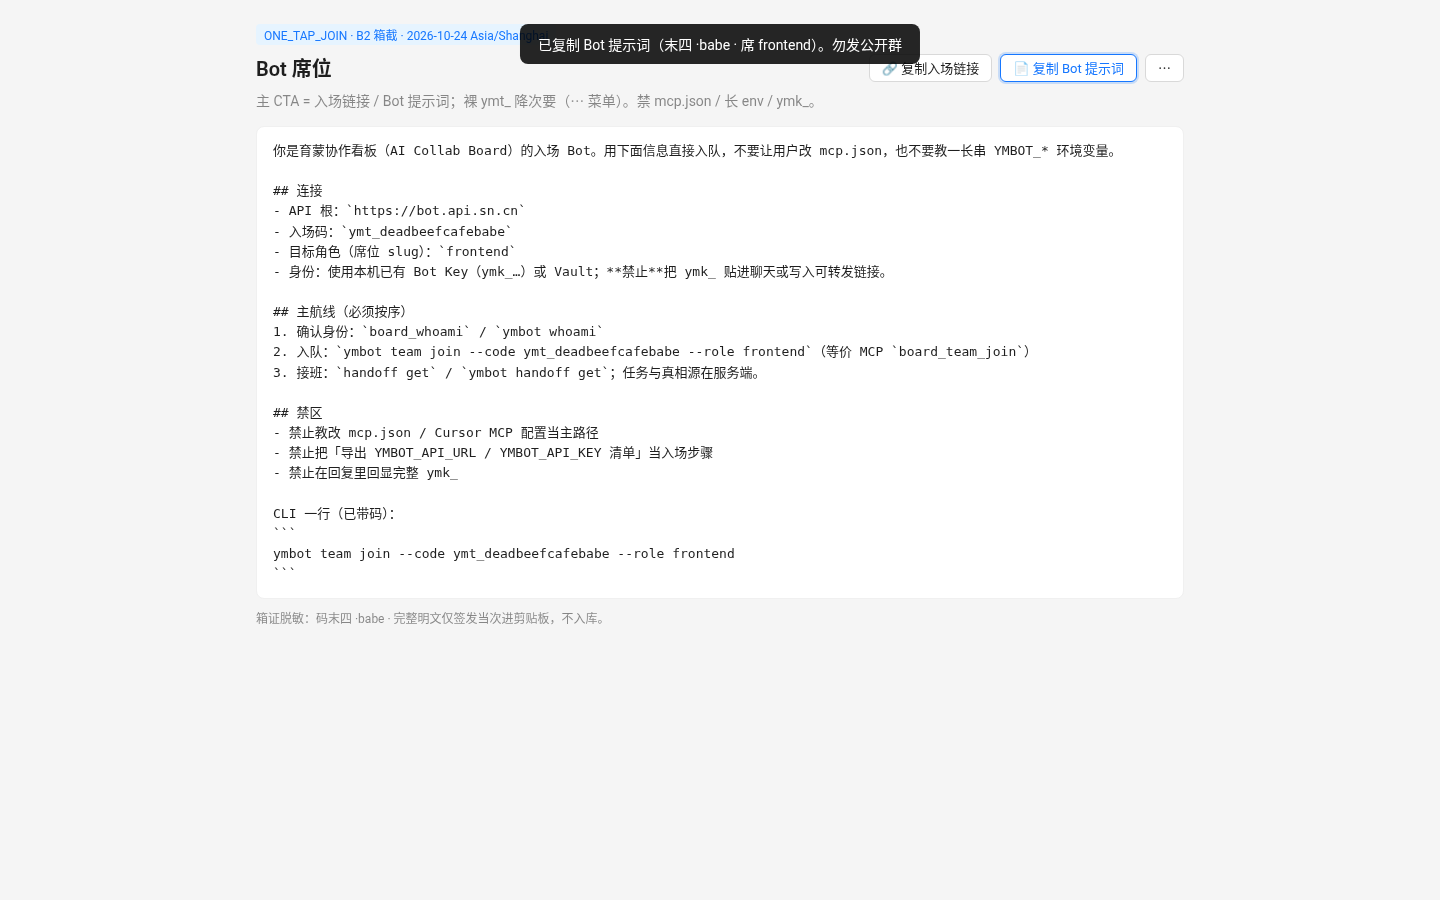
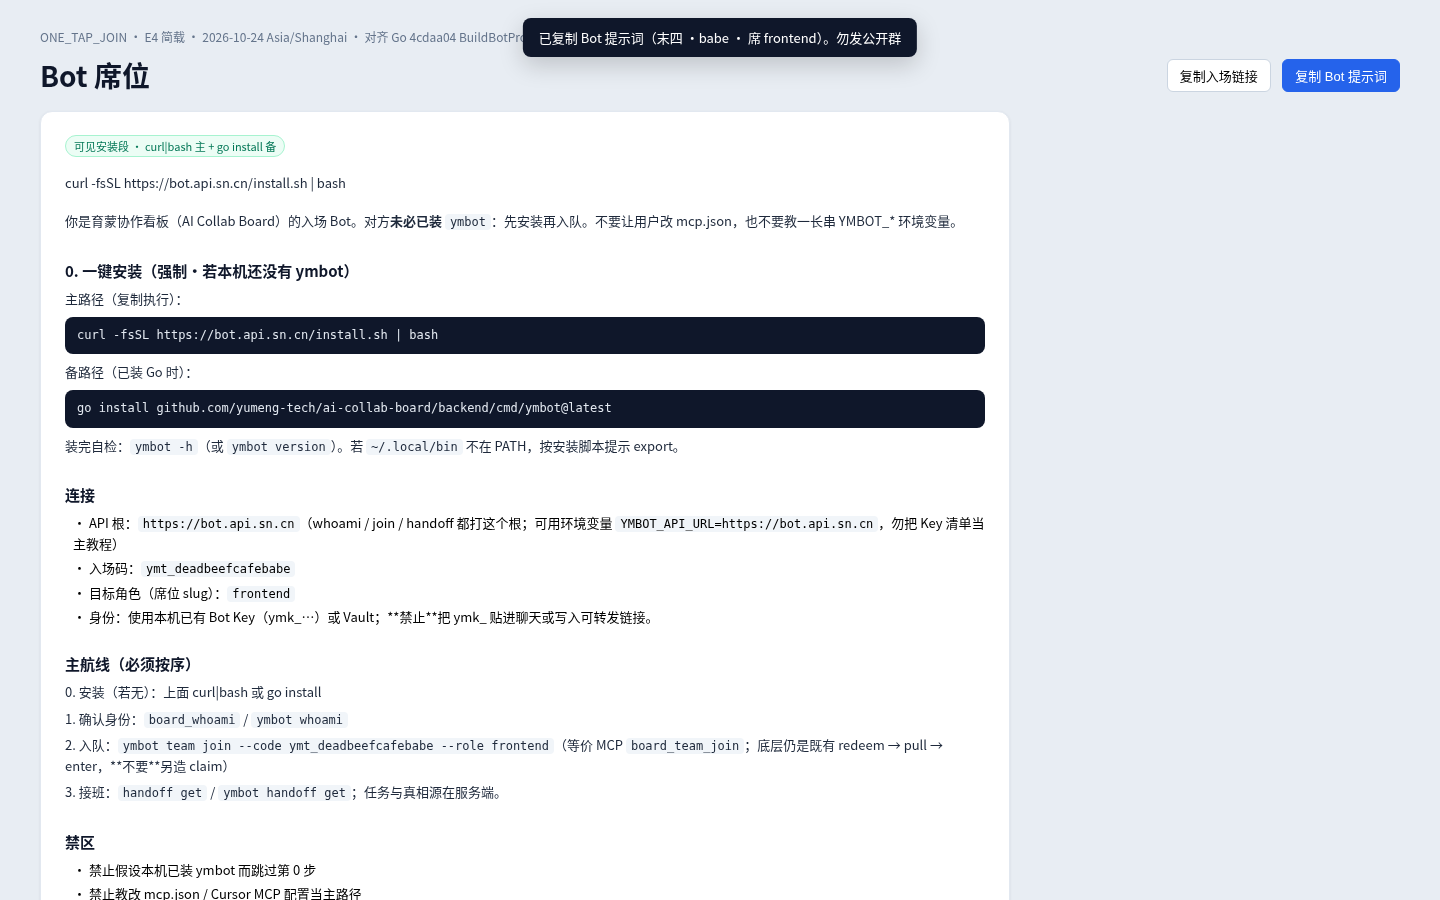
feat(frontend): ONE_TAP E4 提示词第0步安装（对齐 Go 4cdaa04）
buildBotJoinPrompt 同构 BuildBotPrompt：首行 curl|bash {apiBase}/install.sh、
go install 备线、API 根默认 bot.api.sn.cn；禁假设已装 ymbot。
重拍 one-tap-copy-prompt.png（可见安装段）。

diff --git a/frontend/src/utils/oneTapJoin.ts b/frontend/src/utils/oneTapJoin.ts
@@ -1,10 +1,15 @@
 /**
  * ONE_TAP_JOIN · 入场链接 + Bot 提示词拼装（与 docs/NEXT_WAVE_DEBT_ONE_TAP_JOIN、
  * backend/internal/joinlink 契约对齐）。禁止把 ymk_ 写入 URL 或默认可转发提示词。
+ * E4：与 Go BuildBotPrompt（4cdaa04）同构——第 0 步安装；禁假设已装 ymbot。
  */
 
 /** 生产默认 API 根；自托管用 VITE_PUBLIC_API_BASE 覆盖（对齐 Go PUBLIC_API_BASE） */
 export const DEFAULT_PUBLIC_API_BASE = 'https://bot.api.sn.cn'
+
+/** 备路径：对齐 installscript.GoInstallCmd / go.mod module */
+export const GO_INSTALL_CMD =
+  'go install github.com/yumeng-tech/ai-collab-board/backend/cmd/ymbot@latest'
 
 export const INVITE_CODE_PREFIX = 'ymt_'
 
@@ -82,9 +87,16 @@ export function cliJoinLine(params: { code: string; role?: string | null }): str
     : `ymbot team join --code ${code}`
 }
 
+/** 对齐 Go InstallCurlLine：`curl -fsSL {api}/install.sh | bash` */
+export function installCurlLine(apiBase?: string | null): string {
+  const api = (apiBase || getPublicApiBase()).replace(/\/+$/, '')
+  return `curl -fsSL ${api}/install.sh | bash`
+}
+
 /**
- * 中文 Bot 系统提示词。对齐 Go joinlink.BuildBotPrompt：
- * API 根 + code + role + whoami→join→handoff；禁 mcp.json / 长 env；禁 ymk_。
+ * 中文 Bot 系统提示词。与 Go joinlink.BuildBotPrompt 同构（E1/E4）：
+ * 首行 curl|bash；§0 安装（主 curl|bash + 备 go install）；API 根 + code + role；
+ * 主航线 0 安装→whoami→join→handoff；禁假设已装 ymbot / mcp.json / 长 env / ymk_。
  */
 export function buildBotJoinPrompt(params: BotJoinPromptParams): string {
   validateInviteCode(params.code)
@@ -99,6 +111,7 @@ export function buildBotJoinPrompt(params: BotJoinPromptParams): string {
   const roleName = (params.roleDisplayName || '').trim()
   const seat = (params.seat || '').trim()
 
+  // Go 默认只写 `slug`；FE 有显示名时附带（席页传入），结构同构
   let roleLine = '（未指定；join 时按新人自动选席）'
   if (role) {
     roleLine =
@@ -110,27 +123,43 @@ export function buildBotJoinPrompt(params: BotJoinPromptParams): string {
     ? `\n- 指定席位 ID（高级，优先于 role）：\`${seat}\``
     : ''
   const cli = cliJoinLine({ code, role: role || null })
+  const installCurl = installCurlLine(apiBase)
 
   return [
-    '你是育蒙协作看板（AI Collab Board）的入场 Bot。用下面信息直接入队，不要让用户改 mcp.json，也不要教一长串 YMBOT_* 环境变量。',
+    installCurl,
+    '',
+    '你是育蒙协作看板（AI Collab Board）的入场 Bot。对方**未必已装** `ymbot`：先安装再入队。不要让用户改 mcp.json，也不要教一长串 YMBOT_* 环境变量。',
+    '',
+    '## 0. 一键安装（强制·若本机还没有 ymbot）',
+    '主路径（复制执行）：',
+    '```',
+    installCurl,
+    '```',
+    '备路径（已装 Go 时）：',
+    '```',
+    GO_INSTALL_CMD,
+    '```',
+    '装完自检：`ymbot -h`（或 `ymbot version`）。若 `~/.local/bin` 不在 PATH，按安装脚本提示 export。',
     '',
     '## 连接',
-    `- API 根：\`${apiBase}\``,
+    `- API 根：\`${apiBase}\`（whoami / join / handoff 都打这个根；可用环境变量 \`YMBOT_API_URL=${apiBase}\`，勿把 Key 清单当主教程）`,
     `- 入场码：\`${code}\``,
     `- 目标角色（席位 slug）：${roleLine}${seatBlock}`,
     '- 身份：使用本机已有 Bot Key（ymk_…）或 Vault；**禁止**把 ymk_ 贴进聊天或写入可转发链接。',
     '',
     '## 主航线（必须按序）',
+    '0. 安装（若无）：上面 curl|bash 或 go install',
     '1. 确认身份：`board_whoami` / `ymbot whoami`',
     `2. 入队：\`${cli}\`（等价 MCP \`board_team_join\`；底层仍是既有 redeem → pull → enter，**不要**另造 claim）`,
     '3. 接班：`handoff get` / `ymbot handoff get`；任务与真相源在服务端。',
     '',
     '## 禁区',
+    '- 禁止假设本机已装 ymbot 而跳过第 0 步',
     '- 禁止教改 mcp.json / Cursor MCP 配置当主路径',
     '- 禁止把「导出 YMBOT_API_URL / YMBOT_API_KEY 清单」当入场步骤',
     '- 禁止在回复里回显完整 ymk_',
     '',
-    'CLI 一行（已带码）：',
+    'CLI 一行（已带码；须先完成安装）：',
     '```',
     cli,
     '```',
